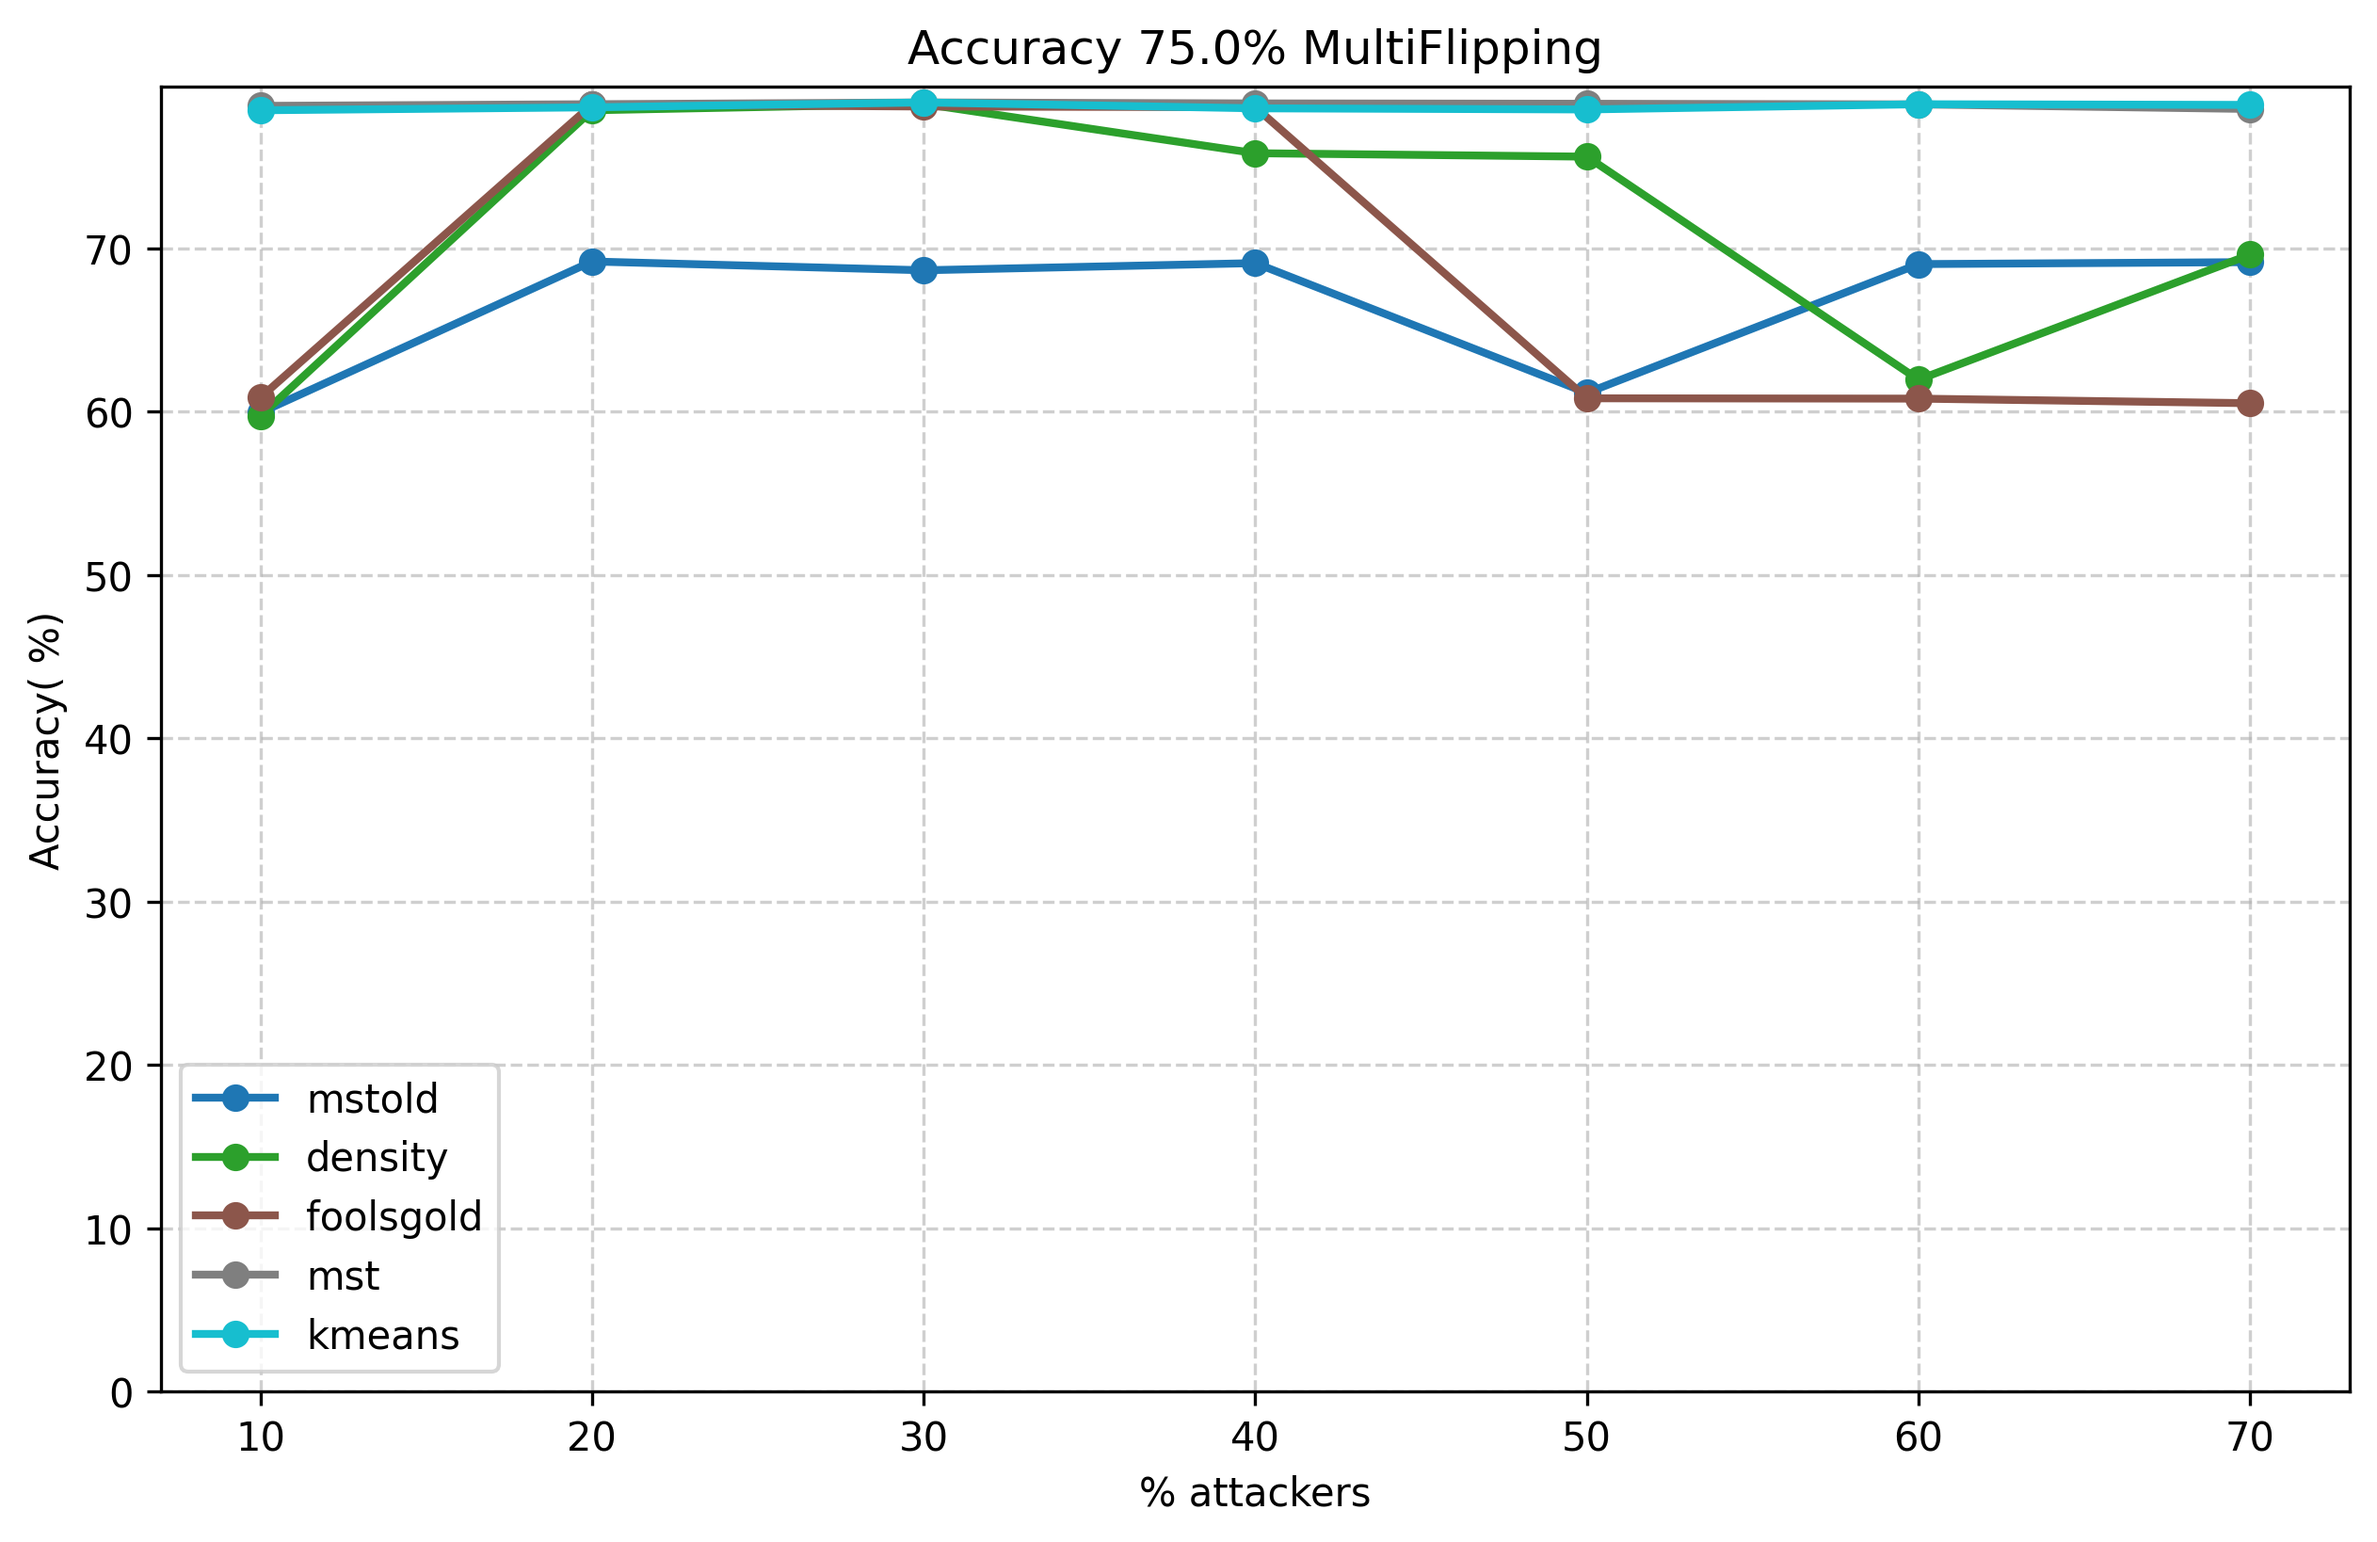
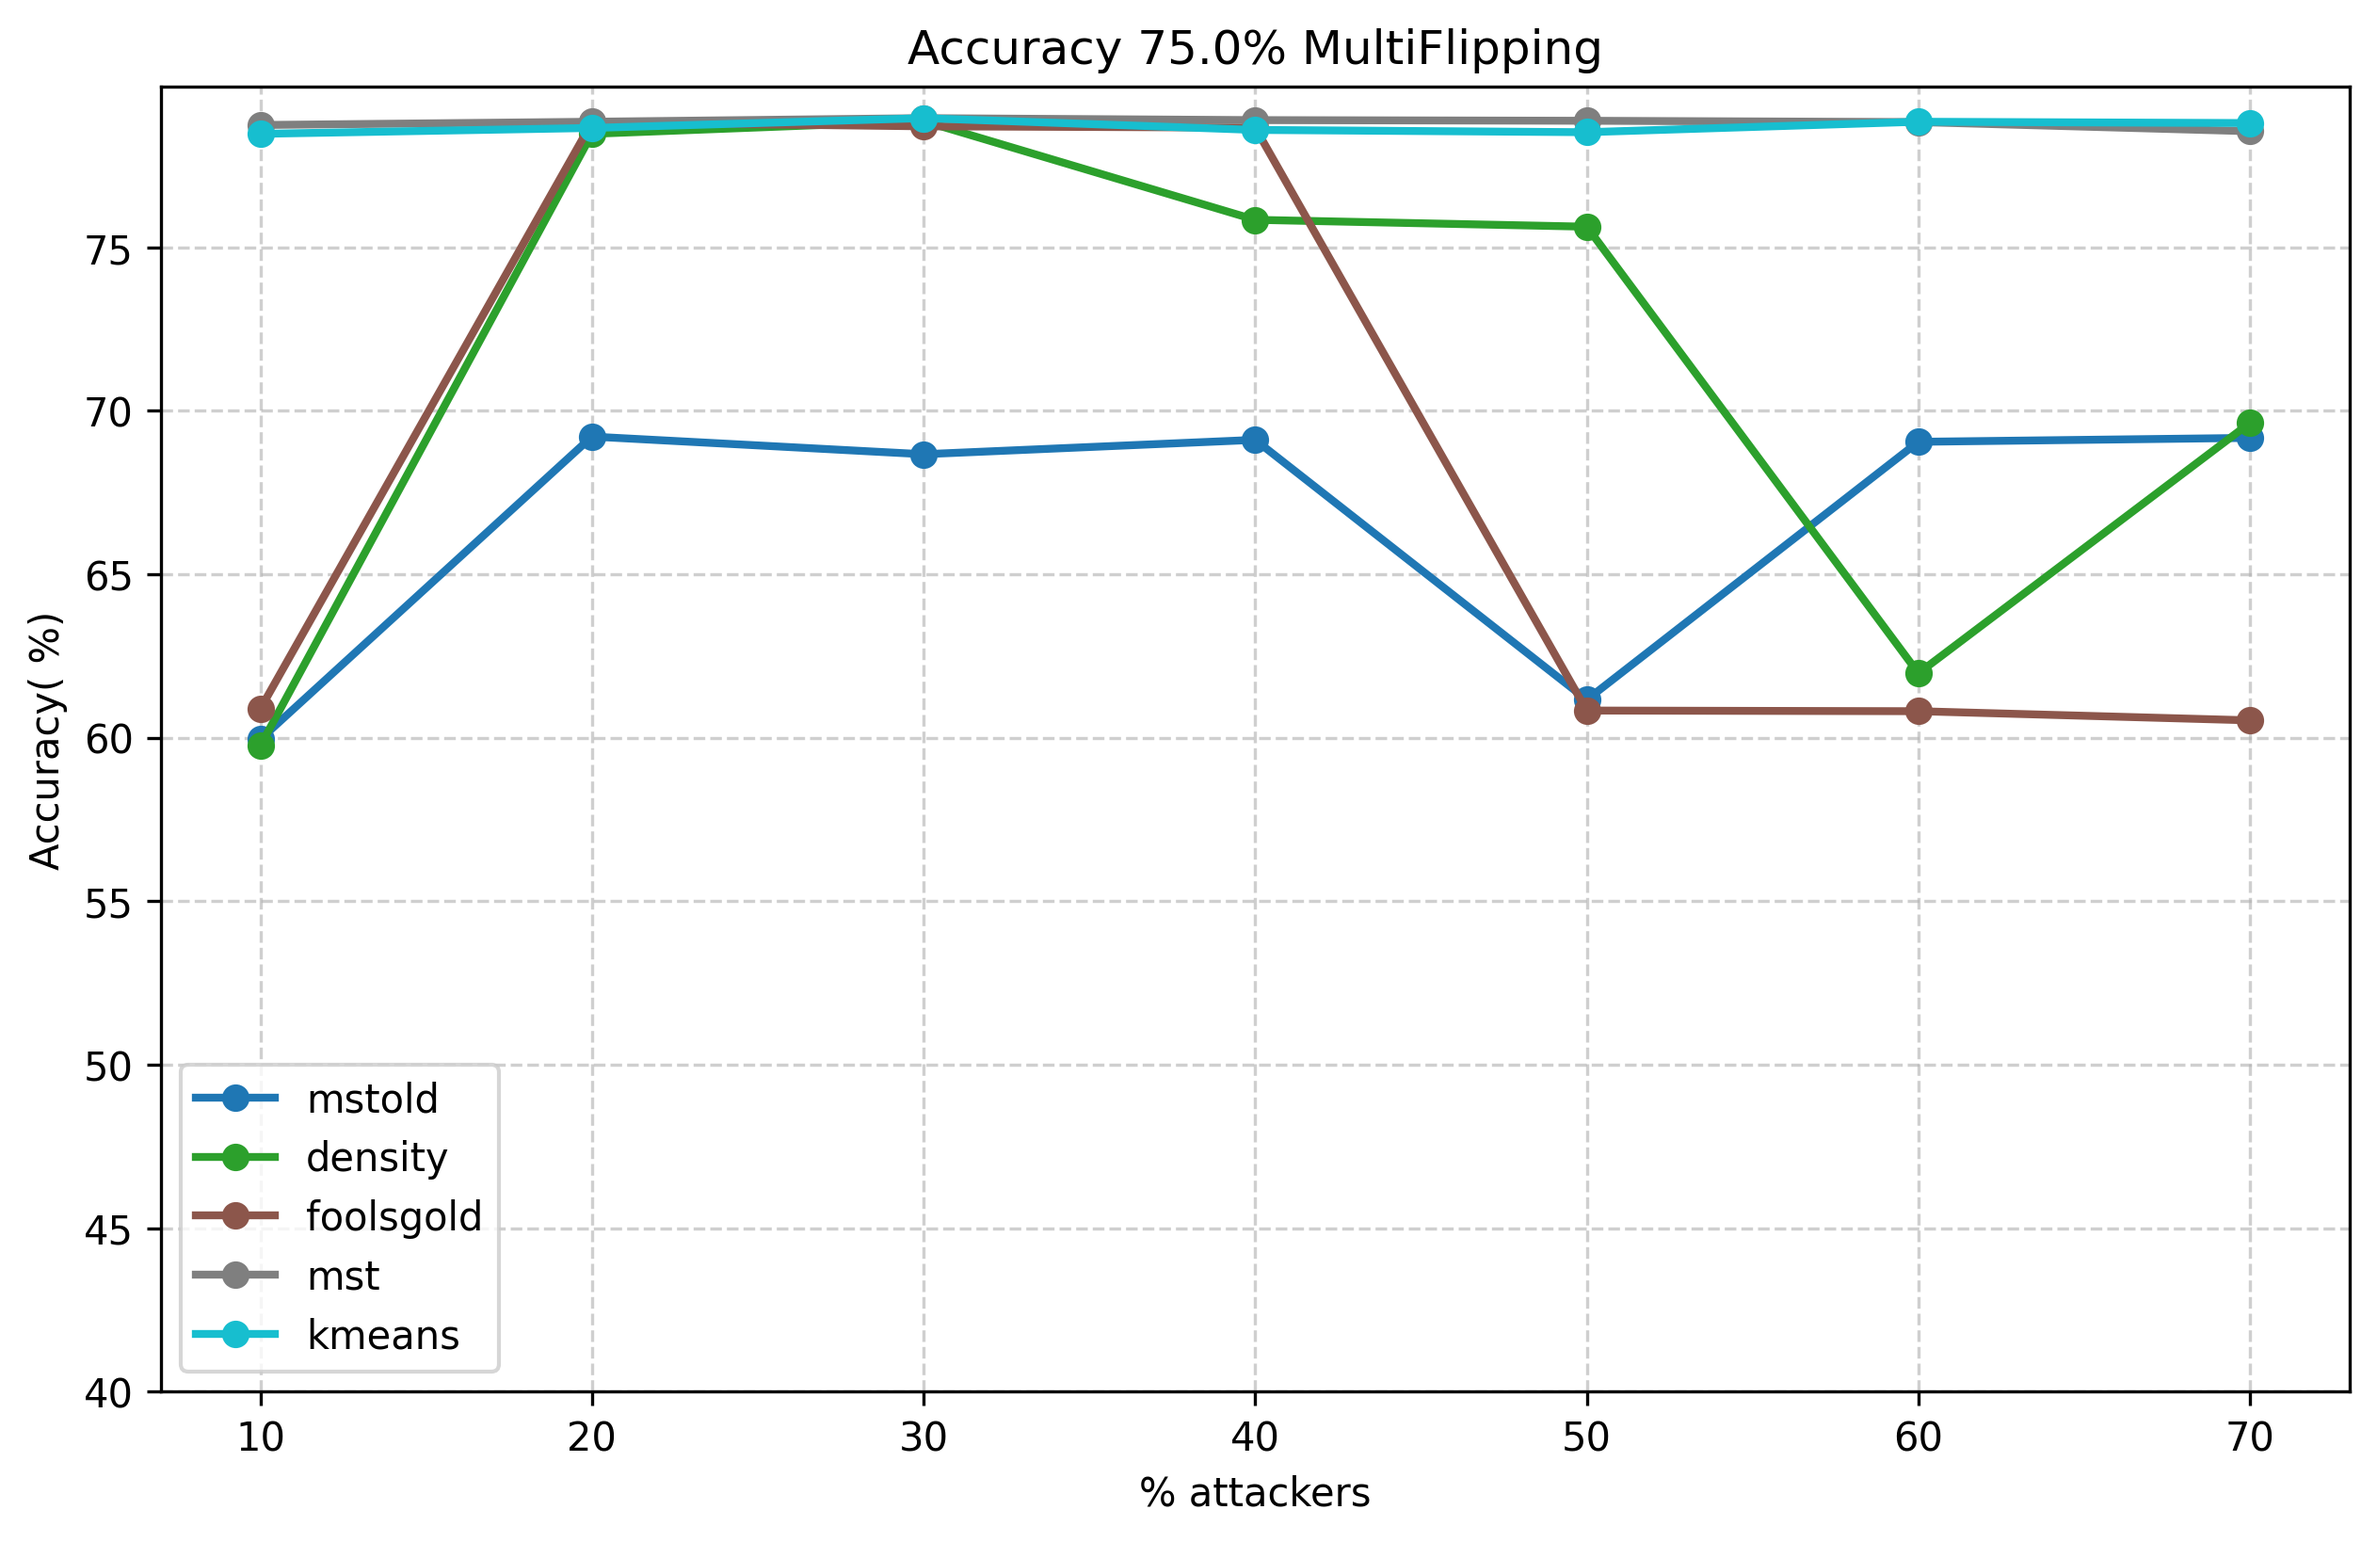
FMnist SF result plots

diff --git a/plots/graphGeneratorAccuracy.py b/plots/graphGeneratorAccuracy.py
@@ -3,7 +3,7 @@ import matplotlib.pyplot as plt
 import os
 
 # Percorso del file CSV (modifica questo percorso in base al tuo sistema)
-file_path = "./logs/FMnist/Accuracy/0,50MF.csv"
+file_path = "./logs/FMnist/Accuracy/0,75MF.csv"
 
 # Carica il file CSV
 data = pd.read_csv(file_path)
@@ -50,7 +50,7 @@ for idx, col in enumerate(values.columns):
 # Aggiungi le etichette
 plt.xlabel("% attackers")
 plt.ylabel(ylabel + "( %)")
-plt.ylim(bottom=0)
+plt.ylim(bottom=40)
 plt.title(title)
 
 # Aggiungi la griglia per una migliore leggibilità
